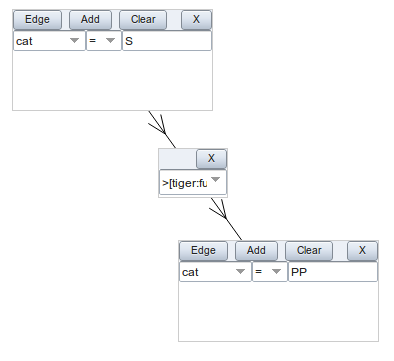
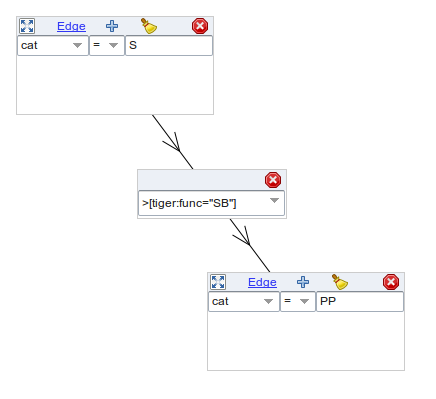
links instead of buttons

Changed region(s): [[0.3046, 0.2742, 0.9746, 0.7922], [0.0305, 0.0, 0.5482, 0.3047]]

diff --git a/annis-gui/src/main/webapp/VAADIN/themes/annis-theme/styles.css b/annis-gui/src/main/webapp/VAADIN/themes/annis-theme/styles.css
@@ -52,6 +52,9 @@
   cursor: pointer;
 }
 
+.drag-source-enabled {
+  cursor: move;
+}
 
 .toolbar .v-panel-content {
   background-color: #ecf0f6;

diff --git a/annis-gui/src/main/java/annis/gui/querybuilder/NodeWindow.java b/annis-gui/src/main/java/annis/gui/querybuilder/NodeWindow.java
@@ -85,13 +85,14 @@ public class NodeWindow extends Panel implements Button.ClickListener
 
     btMove = new Button();
     btMove.setIcon(new ThemeResource("tango-icons/16x16/view-fullscreen.png"));
-    btMove.setDescription("Move window");
-    btMove.setStyleName(ChameleonTheme.BUTTON_ICON_ONLY);
+    btMove.setDescription("<strong>Move window</strong><br />Hold button and move mouse to move the window.");
+    btMove.addStyleName(ChameleonTheme.BUTTON_LINK);
     btMove.addStyleName("drag-source-enabled");
     toolbar.addComponent(btMove);
     
     btEdge = new Button("Edge");
     btEdge.addListener((Button.ClickListener) this);
+    btEdge.setStyleName(ChameleonTheme.BUTTON_LINK);
     btEdge.setDescription("<strong>Add Edge</strong><br />"
       + "To create a new edge between "
       + "two nodes click this button first. "
@@ -99,11 +100,11 @@ public class NodeWindow extends Panel implements Button.ClickListener
       + "button.<br>You can cancel the action by clicking this button "
       + "(\"Cancel\") again.");
     btEdge.setImmediate(true);
-    
     toolbar.addComponent(btEdge);
+    
     btAdd = new Button();
     btAdd.setIcon(new ThemeResource("tango-icons/16x16/list-add.png"));
-    btAdd.setStyleName(ChameleonTheme.BUTTON_ICON_ONLY);
+    btAdd.setStyleName(ChameleonTheme.BUTTON_LINK);
     btAdd.addListener((Button.ClickListener) this);
     btAdd.setDescription("<strong>Add Node Condition</strong><br />"
       + "Every condition will constraint the node described by this window. "
@@ -113,7 +114,7 @@ public class NodeWindow extends Panel implements Button.ClickListener
     toolbar.addComponent(btAdd);
     btClear = new Button();
     btClear.setIcon(new ThemeResource("tango-icons/16x16/edit-clear.png"));
-    btClear.setStyleName(ChameleonTheme.BUTTON_ICON_ONLY);
+    btClear.setStyleName(ChameleonTheme.BUTTON_LINK);
     btClear.addListener((Button.ClickListener) this);
     btClear.setDescription("<strong>Clear All Node Conditions</strong>");
       
@@ -121,8 +122,8 @@ public class NodeWindow extends Panel implements Button.ClickListener
 
     btClose = new Button();
     btClose.setIcon(new ThemeResource("tango-icons/16x16/process-stop.png"));
-    btClose.setDescription("Close");
-    btClose.setStyleName(ChameleonTheme.BUTTON_ICON_ONLY);
+    btClose.setDescription("<strong>Close</strong><br />Close this node description window");
+    btClose.setStyleName(ChameleonTheme.BUTTON_LINK);
     btClose.addListener((Button.ClickListener) this);
     toolbar.addComponent(btClose);
 
@@ -136,6 +137,7 @@ public class NodeWindow extends Panel implements Button.ClickListener
     btClear.setVisible(!prepare);
     btClose.setVisible(!prepare);
     btAdd.setVisible(!prepare);
+    btMove.setVisible(!prepare);
 
     if(prepare)
     {

diff --git a/annis-gui/src/main/java/annis/gui/querybuilder/EdgeWindow.java b/annis-gui/src/main/java/annis/gui/querybuilder/EdgeWindow.java
@@ -18,6 +18,7 @@ package annis.gui.querybuilder;
 import annis.gui.querybuilder.NodeWindow.SimpleNewItemHandler;
 import com.vaadin.data.Property.ValueChangeEvent;
 import com.vaadin.data.Property.ValueChangeListener;
+import com.vaadin.terminal.ThemeResource;
 import com.vaadin.ui.Button.ClickEvent;
 import com.vaadin.ui.*;
 import com.vaadin.ui.themes.ChameleonTheme;
@@ -51,7 +52,6 @@ public class EdgeWindow extends Panel implements Button.ClickListener
     
     setSizeFull();
     
-    
     VerticalLayout vLayout = (VerticalLayout) getContent();
     vLayout.setMargin(false);
     
@@ -61,8 +61,9 @@ public class EdgeWindow extends Panel implements Button.ClickListener
     toolbar.setHeight("20px");
     addComponent(toolbar);
         
-    btClose = new Button("X");
-    btClose.setStyleName(ChameleonTheme.BUTTON_SMALL);
+    btClose = new Button();
+    btClose.setStyleName(ChameleonTheme.BUTTON_LINK);
+    btClose.setIcon(new ThemeResource("tango-icons/16x16/process-stop.png"));
     btClose.addListener((Button.ClickListener) this);
     toolbar.addComponent(btClose);
     

diff --git a/annis-gui/src/main/java/annis/gui/querybuilder/TigerQueryBuilderCanvas.java b/annis-gui/src/main/java/annis/gui/querybuilder/TigerQueryBuilderCanvas.java
@@ -251,7 +251,7 @@ public class TigerQueryBuilderCanvas extends Panel
       if (valid)
       {
         EdgeWindow e = new EdgeWindow(this, preparedEdgeSource, target);
-        e.setWidth("70px");
+        e.setWidth("150px");
         e.setHeight("50px");
         e.addStyleName("tigerquery-builder-overlay");
         edges.add(e);
